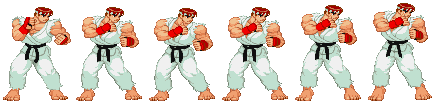
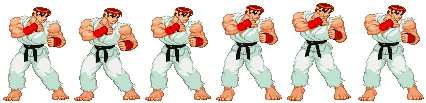
consertando a sprite idle2 e a grafia de hadouken

Changed region(s): [[0.0, 0.0291, 1.0, 0.9903], [0.0, 0.8155, 0.061, 0.9903]]

diff --git a/script.js b/script.js
@@ -1,22 +1,21 @@
-const canvas = document.getElementById('gameScreen');
+const canvas = document.getElementById("gameScreen");
 const ctx = canvas.getContext("2d");
-//vw = (Math.max(document.documentElement.clientWidth || 0, window.innerWidth || 0) * 0.9) 
-//vh = (Math.max(document.documentElement.clientHeight || 0, window.innerHeight || 0) ) 
+//vw = (Math.max(document.documentElement.clientWidth || 0, window.innerWidth || 0) * 0.9)
+//vh = (Math.max(document.documentElement.clientHeight || 0, window.innerHeight || 0) )
 //canvas.width = vw;
-//canvas.height = vh; 
+//canvas.height = vh;
 canvas.width = 400;
 canvas.height = 400;
 
-document.addEventListener("keydown" , (e)=>{
+document.addEventListener("keydown", (e) => {
+  if (e.key === " ") {
+    quadro = 0;
+    acao = (acao + 1) % 8;
+  }
+});
 
-    if(e.key === " "){
-        quadro = 0; 
-        acao = (acao + 1)%8;
-    }
-})
-
-const haduken = new Image();
-haduken.src = "assets\\haduken_strip10.png";
+const hadouken = new Image();
+hadouken.src = "assets\\hadouken_strip10.png";
 const idle = new Image();
 idle.src = "assets\\idle_strip9.png";
 const idle2 = new Image();
@@ -32,54 +31,58 @@ punch2.src = "assets\\punch2_strip6.png";
 const uppercut = new Image();
 uppercut.src = "assets\\uppercut_strip6.png";
 
-
-let acao = 0 , quadro = 0;
+let acao = 0,
+  quadro = 0;
 
 let personagem = {
-    x: 80,
-    y: 80,
-    POSES: [
-        { img: idle, largura: 75, nFrames: 9, vFrame:9 },
-        { img: idle2, largura: 73, nFrames: 6, vFrame:6 },
-        { img: kick, largura: 123, nFrames: 3, vFrame:3 },
-        { img: kick2, largura: 114, nFrames: 6, vFrame:6 },
-        { img: punch, largura: 112, nFrames: 2, vFrame:2 },
-        { img: punch2, largura: 114, nFrames: 6, vFrame:6 },
-        { img: uppercut, largura: 83, nFrames: 6, vFrame:6 },
-        { img: haduken,  largura: 149, nFrames: 10, vFrame:10 }  
-    ],
-    desenha(){
+  x: 80,
+  y: 80,
+  POSES: [
+    { img: idle, largura: 75, nFrames: 9, vFrame: 9 },
+    { img: idle2, largura: 73, nFrames: 6, vFrame: 6 },
+    { img: kick, largura: 123, nFrames: 3, vFrame: 3 },
+    { img: kick2, largura: 114, nFrames: 6, vFrame: 6 },
+    { img: punch, largura: 112, nFrames: 2, vFrame: 2 },
+    { img: punch2, largura: 114, nFrames: 6, vFrame: 6 },
+    { img: uppercut, largura: 83, nFrames: 6, vFrame: 6 },
+    { img: hadouken, largura: 149, nFrames: 10, vFrame: 10 },
+  ],
+  desenha() {
+    ctx.clearRect(0, 0, canvas.width, canvas.height);
+    ctx.fillStyle = "black";
+    ctx.font = "20px Impact";
+    ctx.fillText("Aperte espaço", 20, 20, canvas.width);
+    ctx.drawImage(
+      personagem.POSES[acao].img, ///source
+      ///posicao na sprite sheet
+      personagem.POSES[acao].largura * Math.floor(quadro), //sx
+      0,
+      personagem.POSES[acao].largura,
+      personagem.POSES[acao].img.height,
+      ///posicao na tela;
+      personagem.x,
+      canvas.height - personagem.POSES[acao].img.height - 20,
+      personagem.POSES[acao].largura,
+      personagem.POSES[acao].img.height
+    );
+  },
+};
 
-        ctx.clearRect(0 , 0 , canvas.width , canvas.height);
-        ctx.drawImage(
-            personagem.POSES[acao].img,///source
-            ///posicao na sprite sheet
-            personagem.POSES[acao].largura*Math.floor(quadro), //sx
-            0,
-            personagem.POSES[acao].largura,
-            personagem.POSES[acao].img.height,
-            ///posicao na tela;
-            personagem.x,
-            canvas.height - personagem.POSES[acao].img.height - 20,
-            personagem.POSES[acao].largura,
-            personagem.POSES[acao].img.height   
-        );
-
-    }
-}
-
-let t0 , dt;
+let t0, dt;
 
 requestAnimationFrame(loop);
-function loop(t){
-    t0 = t0 ?? t;
-    dt = (t - t0)/1000;
+function loop(t) {
+  t0 = t0 ?? t;
+  dt = (t - t0) / 1000;
 
-    personagem.desenha();
-    ///esse 0.2 é uma gambiarra pra animação não flickar
-    quadro = (quadro >= personagem.POSES[acao].nFrames - 0.2)? quadro = 0 : quadro + personagem.POSES[acao].vFrame*dt;
-    
-    
-    requestAnimationFrame(loop);
-    t0 = t;
+  personagem.desenha();
+  ctx.fillText;
+  ///esse 0.2 é uma gambiarra pra animação não flickar
+  quadro =
+    quadro >= personagem.POSES[acao].nFrames - 0.2
+      ? (quadro = 0)
+      : quadro + personagem.POSES[acao].vFrame * dt;
+
+  requestAnimationFrame(loop);
+  t0 = t;
 }
